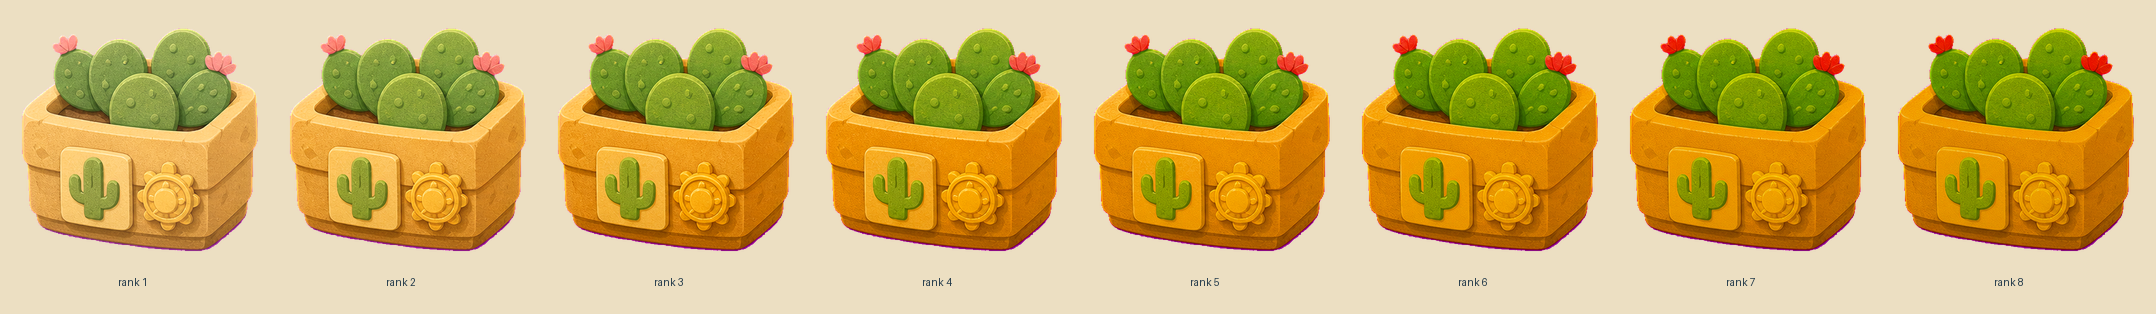
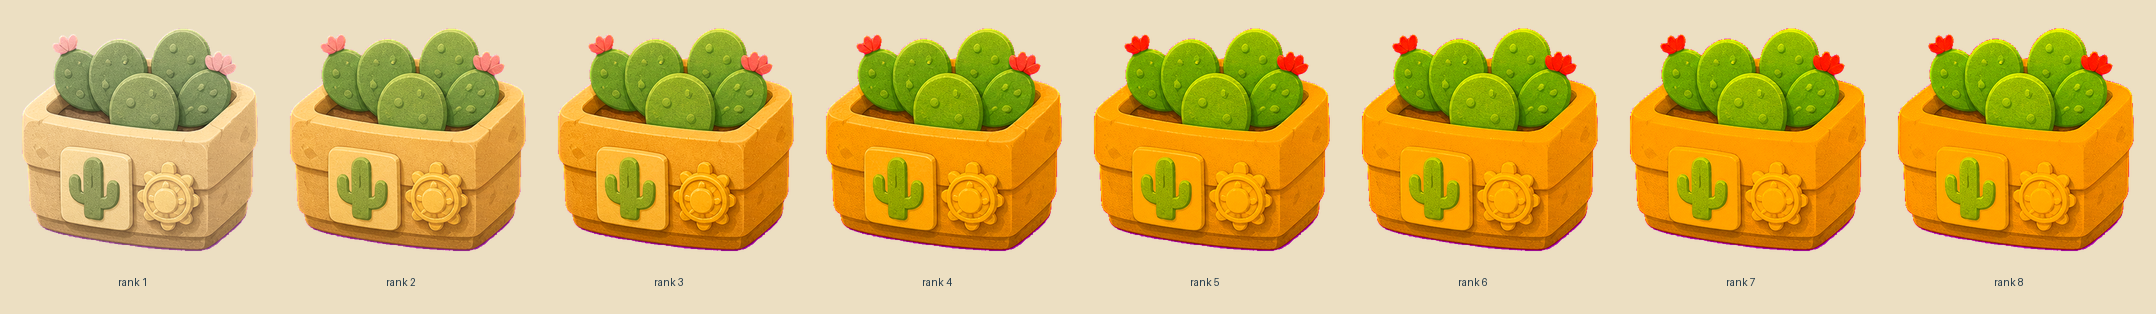
art(concept): rank ramps v6 — vivid arc, hue locked, whites protected
Much stronger vibrancy at high ranks: saturation multiply + chroma-weighted
vibrance + a value LIFT (the earlier curve darkened high ranks, which read
duller). Hue stays locked — fanning hues apart made ranks colourful but broke
line identity (ice went hot pink, shells' lid purple, koi's drop green), and
pulling hues toward the line colour dragged cream trim through green.

Weighting vibrance by existing chroma is what keeps near-white paper white
instead of amplifying its faint off-hue into the wrong colour.

diff --git a/games/grove/assets/_concepts/mastery_rank_ramps/rank_ramp_lines.py b/games/grove/assets/_concepts/mastery_rank_ramps/rank_ramp_lines.py
@@ -1,40 +1,63 @@
 #!/usr/bin/env python3
-"""Per-line generator rank ramps: 8 recolors of ONE sprite, muted -> vivid.
+"""Generator rank ramps v6 — muted at rank 1, jewel-vivid at rank 8.
 
-Alpha and every shape are preserved exactly, so all 8 ranks are provably the same object.
-Per line we author a curve, because a single global curve leaves pale lines (Snow & Ice,
-Woolens, Shells, Sand) nearly unchanged: multiplying the saturation of a near-white pixel
-is a no-op. Pale lines therefore get an ADDITIVE chroma lift plus a value fall, so they
-deepen into their own hue instead of just "staying pale".
+v2 was too timid for two reasons, both fixed here:
+  * saturation was only multiplied, so anything already saturated clamped at 1.0 and the
+    top ranks converged -> ADDITIVE vibrance is applied on every line, strongest where
+    saturation is LOW (the classic "vibrance" curve), so pale masses gain real colour.
+  * high ranks were DARKENED, which reads as duller, not richer -> value now LIFTS with
+    rank, and bright areas gain extra pop for luminous cut paper.
+Plus hue spread: hues fan out from the sprite's dominant hue as rank rises, so a rank-8
+generator reads as multi-coloured, not one flat saturated mass.
 
-Per line: sat_mult lo->hi, sat_add lo->hi (additive chroma, the pale-line lever),
-val lo->hi. Rank 1 sits slightly below the shipped art, rank 8 is the vivid top.
+Alpha and every shape stay untouched: all 8 ranks remain provably the same object.
 """
-import sys, colorsys, pathlib
+import sys, colorsys, math, pathlib
 from PIL import Image, ImageDraw
 
 N = 8
 
-# stem -> (sat_mult_lo, sat_mult_hi, sat_add_lo, sat_add_hi, val_lo, val_hi)
+# stem -> (sat_mult_hi, vibrance_hi, val_hi, hue_spread_hi)
+# rank 1 anchors are shared and deliberately muted so the arc is dramatic.
+SAT_MULT_LO, VIB_LO, VAL_LO, SPREAD_LO = 0.55, 0.00, 1.02, 1.00
 LINES = {
-    # already-saturated lines: multiplicative is enough
-    "glowshroom":   (0.78, 1.98, 0.00, 0.00, 1.05, 0.96),
-    "wildberries":  (0.78, 1.92, 0.00, 0.02, 1.05, 0.95),
-    "desertfruits": (0.78, 1.90, 0.00, 0.02, 1.05, 0.96),
-    "koi":          (0.80, 1.70, 0.00, 0.00, 1.06, 0.94),
-    # pale lines: need additive chroma + a value fall to read across 8 steps
-    "snowice":      (0.85, 2.40, 0.00, 0.30, 1.05, 0.88),
-    "woolens":      (0.82, 2.10, 0.00, 0.17, 1.05, 0.92),
-    "sand":         (0.85, 2.00, 0.00, 0.13, 1.05, 0.93),
-    "shells":       (0.82, 2.10, 0.00, 0.15, 1.05, 0.92),
+    "glowshroom":   (2.30, 0.50, 1.15, 1.00),
+    "wildberries":  (2.30, 0.50, 1.14, 1.00),
+    "desertfruits": (2.25, 0.48, 1.14, 1.00),
+    "koi":          (2.20, 0.46, 1.16, 1.00),
+    "snowice":      (2.90, 0.62, 1.13, 1.00),
+    "woolens":      (2.60, 0.58, 1.15, 1.00),
+    "sand":         (2.50, 0.55, 1.14, 1.00),
+    "shells":       (2.60, 0.58, 1.14, 1.00),
 }
 
 
-def lerp(a: float, b: float, t: float) -> float:
+def lerp(a, b, t):
     return a + (b - a) * t
 
 
-def recolor(im: Image.Image, sat_x: float, sat_add: float, val_x: float) -> Image.Image:
+def dominant_hue(im):
+    """Saturation-weighted circular mean hue — the axis hues fan out from."""
+    px = im.load()
+    w, h = im.size
+    x_acc = y_acc = 0.0
+    for y in range(0, h, 3):
+        for x in range(0, w, 3):
+            r, g, b, a = px[x, y]
+            if a < 24:
+                continue
+            hh, ss, vv = colorsys.rgb_to_hsv(r / 255, g / 255, b / 255)
+            if ss < 0.10:
+                continue
+            ang = hh * 2 * math.pi
+            x_acc += math.cos(ang) * ss
+            y_acc += math.sin(ang) * ss
+    if x_acc == 0 and y_acc == 0:
+        return 0.0
+    return (math.atan2(y_acc, x_acc) / (2 * math.pi)) % 1.0
+
+
+def recolor(im, sat_x, vib, val_x, spread, dom):
     im = im.convert("RGBA")
     px = im.load()
     w, h = im.size
@@ -47,31 +70,34 @@ def recolor(im: Image.Image, sat_x: float, sat_add: float, val_x: float) -> Imag
                 op[x, y] = (0, 0, 0, 0)
                 continue
             hh, ss, vv = colorsys.rgb_to_hsv(r / 255, g / 255, b / 255)
-            # additive lift scales with how much colour is already there, so pure
-            # white/black stay neutral and only tinted paper deepens
-            ss = min(1.0, ss * sat_x + sat_add * (1.0 if ss > 0.06 else 0.0))
-            vv = min(1.0, vv * val_x)
+            if ss > 0.04:
+                # vibrance weighted by the chroma ALREADY there: near-white paper keeps its
+                # white (a faint off-hue must not be amplified into the wrong colour), while
+                # genuinely coloured masses surge. w ramps 0->1 across s in [0.08, 0.33].
+                vw = min(1.0, max(0.0, (ss - 0.08) / 0.25))
+                ss = min(1.0, ss * sat_x + vib * vw * (1.0 - ss))
+                # fan hues out from the dominant axis
+                d = ((hh - dom + 0.5) % 1.0) - 0.5
+                hh = (dom + d * spread) % 1.0
+            vv = min(1.0, vv * val_x + 0.06 * (val_x - 1.0) * vv)
             nr, ng, nb = colorsys.hsv_to_rgb(hh, ss, vv)
             op[x, y] = (round(nr * 255), round(ng * 255), round(nb * 255), a)
     return out
 
 
-def ramp_for(stem: str, src: pathlib.Path, outdir: pathlib.Path) -> list:
-    sml, smh, sal, sah, vl, vh = LINES[stem]
+def main():
+    src, outdir, stem = pathlib.Path(sys.argv[1]), pathlib.Path(sys.argv[2]), sys.argv[3]
+    sm_hi, vib_hi, val_hi, sp_hi = LINES[stem]
     base = Image.open(src).convert("RGBA")
+    dom = dominant_hue(base)
     outdir.mkdir(parents=True, exist_ok=True)
     tiles = []
     for i in range(N):
-        t = i / (N - 1)
-        img = recolor(base, lerp(sml, smh, t), lerp(sal, sah, t), lerp(vl, vh, t))
+        t = (i / (N - 1)) ** 0.92
+        img = recolor(base, lerp(SAT_MULT_LO, sm_hi, t), lerp(VIB_LO, vib_hi, t),
+                      lerp(VAL_LO, val_hi, t), lerp(SPREAD_LO, sp_hi, t), dom)
         img.save(outdir / f"{stem}_r{i + 1}.png")
         tiles.append(img)
-    return tiles
-
-
-def main() -> None:
-    src, outdir, stem = pathlib.Path(sys.argv[1]), pathlib.Path(sys.argv[2]), sys.argv[3]
-    tiles = ramp_for(stem, src, outdir)
     tw, pad = 256, 12
     strip = Image.new("RGBA", (N * tw + (N + 1) * pad, tw + 2 * pad + 34), (236, 223, 194, 255))
     d = ImageDraw.Draw(strip)

diff --git a/games/grove/assets/_concepts/mastery_rank_ramps/README.md b/games/grove/assets/_concepts/mastery_rank_ramps/README.md
@@ -1,7 +1,7 @@
-# Generator rank ramps — 8 recolors per line (mastery §7 trim)
+# Generator rank ramps — 8 recolors per line (mastery ranks)
 
 Candidate art for generator mastery ranks 1–8: **the same generator sprite, recolored**, muted at
-rank 1 to vivid at rank 8. Not yet approved; nothing loads these at runtime.
+rank 1 to jewel-vivid at rank 8. Not yet approved; nothing loads these at runtime.
 
 ## How they are made
 
@@ -16,39 +16,43 @@ python3 rank_ramp_lines.py \
 
 **Do not generate these with an image model.** A redraw drifts the silhouette — the 2026-07-26
 Codex attempt changed spot count, spot positions, cap dome, and stump proportions between cells,
-which fails the "exactly the same object" requirement. The recolor is deterministic: same source +
+failing the "exactly the same object" requirement. The recolor is deterministic: same source +
 same curve = identical bytes.
 
-## The per-line color scheme
+## The curve
 
-Each line gets its own curve because one global curve leaves pale lines unchanged — multiplying
-the saturation of a near-white pixel is a no-op, so Snow & Ice barely moved across 8 ranks. Pale
-lines get an **additive** chroma lift plus a value fall, so they deepen into their own hue.
+Three terms, all ramping with rank:
 
-| Line | Reads as | sat × (r1→r8) | sat + (r1→r8) | value (r1→r8) |
+1. **Saturation multiply** — the base drive, ×0.55 at rank 1 up to ×2.0–2.9 at rank 8 per line.
+2. **Vibrance, weighted by the chroma already present** — an additive lift that ramps in across
+   `s ∈ [0.08, 0.33]`. This weighting is load-bearing: an unweighted lift amplifies the faint
+   off-hue in near-white paper into the wrong colour (it turned Snow & Ice's white dome lime, and
+   in an earlier pass hot pink). Weighted, whites stay white and only real colour masses surge.
+3. **Value lift** — brightness *rises* with rank (×1.02 → ×1.13–1.16). Darkening high ranks reads
+   as duller, not richer; vivid needs luminance.
+
+**Hue is locked.** Fanning hues apart made ranks colourful but destroyed line identity (ice went
+hot pink, the shells lid purple, koi's water drop green). Pulling hues toward the line's identity
+colour was worse — cream trim dragged through green. Identity survives only if hue does not move.
+
+| Line | Rank 1 → rank 8 | sat × | vibrance | value |
 |---|---|---|---|---|
-| Glow-mushrooms | pale lilac → royal violet | 0.78 → 1.98 | — | 1.05 → 0.96 |
-| Wild Berries | soft sage/plum → deep green + grape | 0.78 → 1.92 | → 0.02 | 1.05 → 0.95 |
-| Snow & Ice | near-white → glacier blue | 0.85 → 2.40 | → 0.30 | 1.05 → 0.88 |
-| Woolens | oat cream → warm amber | 0.82 → 2.10 | → 0.17 | 1.05 → 0.92 |
-| Desert Fruits | pale clay → hot terracotta | 0.78 → 1.90 | → 0.02 | 1.05 → 0.96 |
-| Sand Sculptures | bone beige → golden sand | 0.85 → 2.00 | → 0.13 | 1.05 → 0.93 |
-| Shells | driftwood tan → deep sea blue + gold | 0.82 → 2.10 | → 0.15 | 1.05 → 0.92 |
-| Koi | dusty coral → vermilion | 0.80 → 1.70 | — | 1.06 → 0.94 |
+| Glow-mushrooms | stone lilac → electric magenta, gold spots | 0.55 → 2.30 | 0.50 | 1.02 → 1.15 |
+| Wild Berries | sage/tan → vivid orange basket, lime leaves, grape | 0.55 → 2.30 | 0.50 | 1.02 → 1.14 |
+| Snow & Ice | grey-white → icy dome, vivid blue walls, gold trim | 0.55 → 2.90 | 0.62 | 1.02 → 1.13 |
+| Woolens | oat cream → rich golden amber | 0.55 → 2.60 | 0.58 | 1.02 → 1.15 |
+| Desert Fruits | pale clay → hot orange, vivid cacti | 0.55 → 2.25 | 0.48 | 1.02 → 1.14 |
+| Sand Sculptures | bone beige → golden sand, blue spade | 0.55 → 2.50 | 0.55 | 1.02 → 1.14 |
+| Shells | driftwood → gold basket, deep sea-blue lid | 0.55 → 2.60 | 0.58 | 1.02 → 1.14 |
+| Koi | dusty coral → vermilion and gold | 0.55 → 2.20 | 0.46 | 1.02 → 1.16 |
 
-Rank 1 sits slightly below the shipped art (still a proper object, not drained); the shipped art
-sits around rank 3–4; rank 8 is the vivid top. Two earlier anchorings were rejected: rank 4 =
-shipped drained ranks 1–2 to near-stone, and rank 1 = shipped made ranks 1–4 indistinguishable.
-
-## Known blemishes (fix before shipping)
-
-- **Snow & Ice** dome drifts minty green at ranks 6–8 (its base hue is blue-green; additive chroma
-  exaggerates the green). Needs a hue nudge toward blue for this line.
-- **Sand Sculptures** at rank 8 reads gold rather than sand — acceptable as "golden sand", or pull
-  the top end back.
+Rank 1 is deliberately muted so the arc is dramatic; the shipped art sits around rank 3–4.
+Two anchorings were rejected on the way: shipped-at-rank-4 drained ranks 1–2 to near-stone, and
+shipped-at-rank-1 made ranks 1–4 indistinguishable.
 
 ## If approved
 
 Ranks land as `items/generator/<gen>_r<N>.png` and supersede the generic 4-frame trim overlay in
-§7 of `docs/superpowers/specs/2026-07-26-generator-mastery-design.md` (the spec says the trim is
-one shared overlay set; a full per-rank recolor replaces that). Update the spec in the same pass.
+§7 of `docs/superpowers/specs/2026-07-26-generator-mastery-design.md` (that section says the trim
+is one shared overlay set; a full per-rank recolor replaces it). Update the spec in the same pass,
+and note the sprites are generated, so regenerating beats hand-editing.
